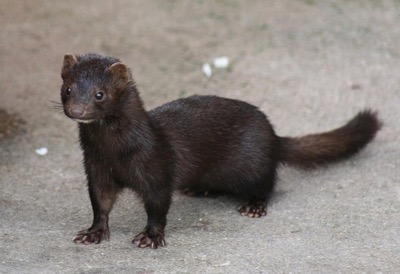
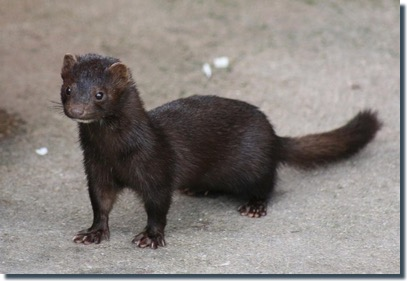
Add shadow to images
and wrap text

diff --git a/style.css b/style.css
@@ -17,3 +17,9 @@ nav a {
     text-decoration: none;
     margin: 0 10px;
 }
+img {
+    float: left; /* Moves the image to the left */
+    margin: 0 15px 10px 0; /* Adds space around the image */
+    max-width: 40%; /* Ensures images don’t take up too much space */
+    height: auto; /* Keeps the image’s aspect ratio */
+}
